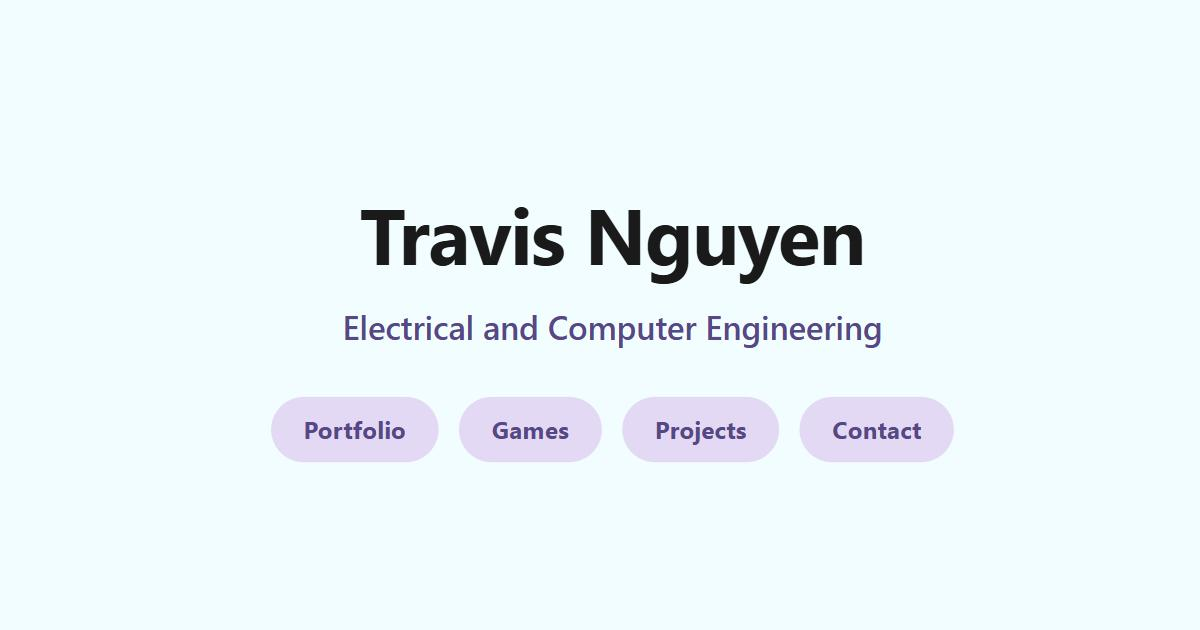
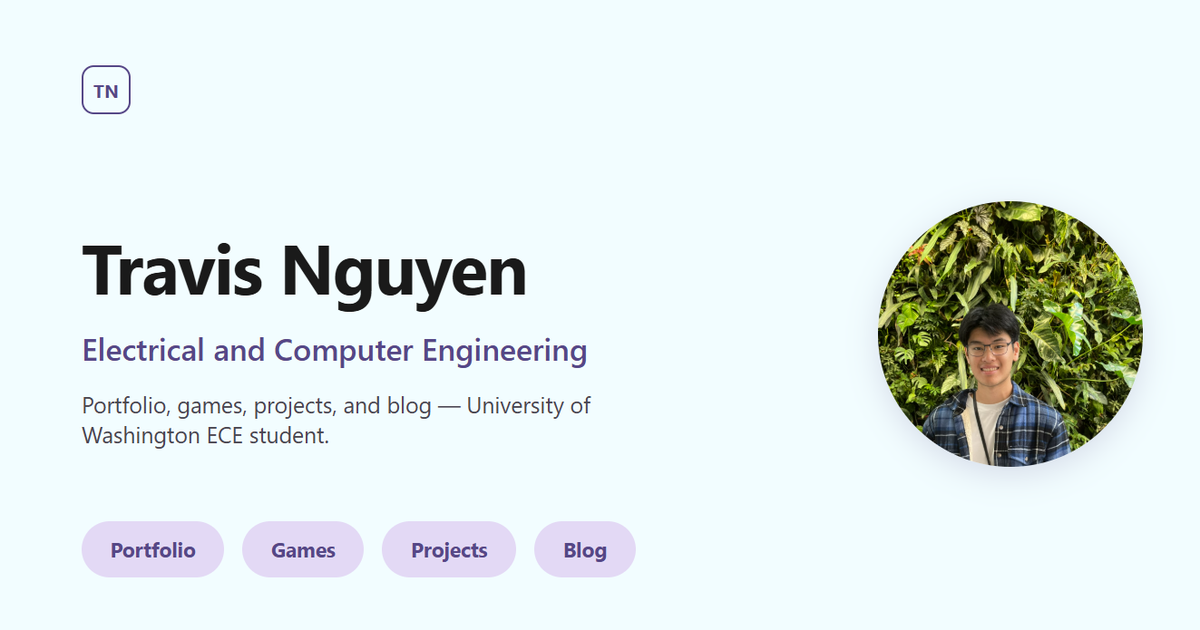
pics

Changed region(s): [[0.0617, 0.3016, 0.9558, 0.754], [0.0617, 0.8143, 0.555, 0.9349], [0.0617, 0.0905, 0.1233, 0.181]]

diff --git a/landingpage/src/App.tsx b/landingpage/src/App.tsx
@@ -83,9 +83,11 @@ function App() {
               or get in touch.
             </p>
           </div>
-          <div className="flex h-40 w-40 shrink-0 items-center justify-center rounded-full bg-accent-light text-3xl font-bold text-accent sm:h-48 sm:w-48">
-            TN
-          </div>
+          <img
+            src="/portrait.jpg"
+            alt="Travis Nguyen"
+            className="h-40 w-40 shrink-0 rounded-full object-cover object-[50%_25%] sm:h-48 sm:w-48"
+          />
         </section>
 
         <nav className="mx-auto grid w-full max-w-5xl grid-cols-1 gap-5 px-6 sm:grid-cols-2 sm:px-10 lg:grid-cols-4">
@@ -110,14 +112,17 @@ function App() {
         <div className="mx-auto my-16 h-px w-full max-w-5xl bg-hairline" />
 
         <section className="mx-auto flex w-full max-w-5xl flex-col items-center gap-10 px-6 pb-20 sm:flex-row sm:px-10">
-          <div className="flex h-40 w-40 shrink-0 items-center justify-center rounded-full bg-accent-light text-3xl font-bold text-accent sm:h-48 sm:w-48">
-            TN
-          </div>
+          <img
+            src="/about.jpg"
+            alt="Travis Nguyen outdoors in Sedona, Arizona"
+            className="h-40 w-40 shrink-0 rounded-full object-cover object-[25%_50%] sm:h-48 sm:w-48"
+          />
           <div className="text-center sm:text-left">
             <h2 className="text-2xl font-bold text-ink">About Me</h2>
             <p className="mt-4 max-w-md text-ink-muted">
-              A short bio goes here — background, interests, and what drives
-              the work above. Swap this placeholder out whenever you're ready.
+              I'm an Electrical and Computer Engineering student at the
+              University of Washington, focused on embedded systems and
+              digital design. Outside of that, I play piano and tennis.
             </p>
           </div>
         </section>
